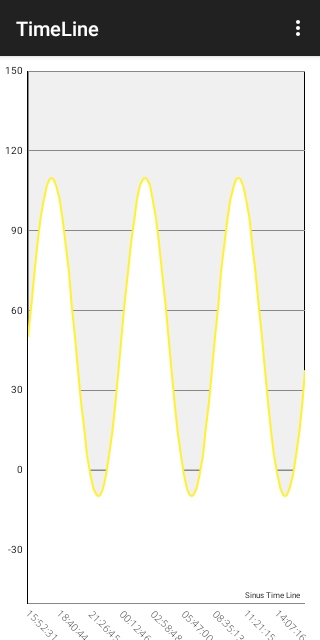
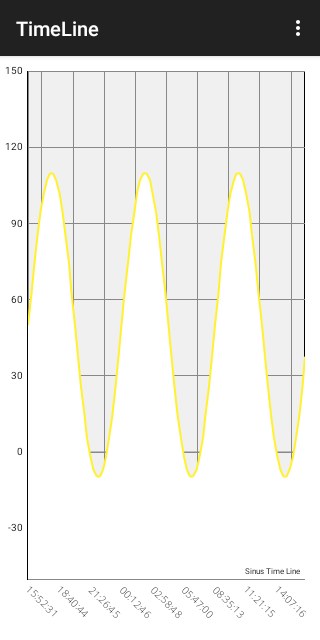
Better fit of XAxisLables

diff --git a/app/src/main/kotlin/info/appdev/chartexample/TimeLineActivity.kt b/app/src/main/kotlin/info/appdev/chartexample/TimeLineActivity.kt
@@ -53,7 +53,7 @@ class TimeLineActivity : DemoBase() {
             position = XAxisPosition.BOTTOM
             typeface = tfLight
             labelRotationAngle = 45f
-            isDrawGridLines = false
+            isDrawGridLines = true
 //            granularity = 1f // only intervals of 1 day
             labelCount = 7
             valueFormatter = UnixTimeAxisValueFormatter("HH:mm:ss")
@@ -61,7 +61,7 @@ class TimeLineActivity : DemoBase() {
 
         // if disabled, scaling can be done on x- and y-axis separately
         binding.chart1.isPinchZoom = false
-
+        binding.chart1.setExtraOffsets(0f,0f,0f,24f)
         binding.chart1.legend.apply {
             isEnabled = false
             form = LegendForm.LINE
